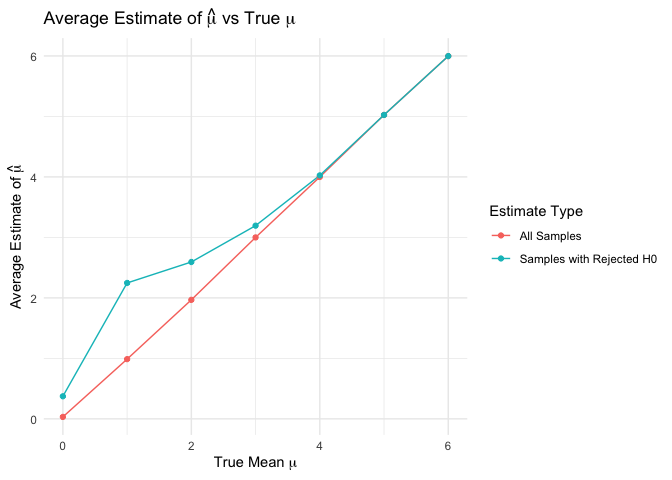
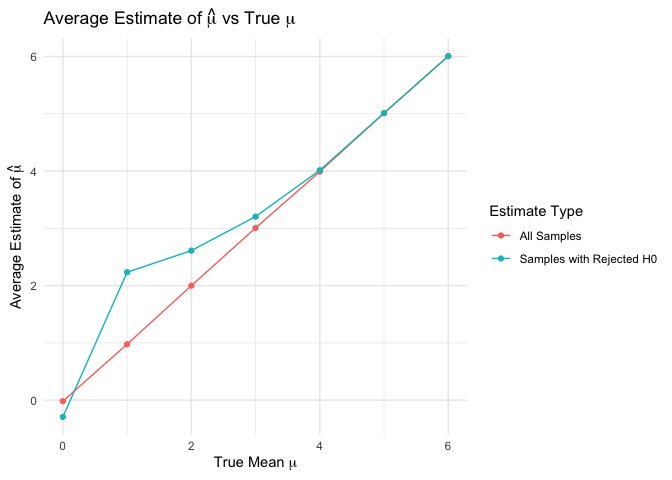
Problem3: get proportion test for baltimore and rest cities, add bar plot

diff --git a/p8105_hw5_mw3845.md b/p8105_hw5_mw3845.md
@@ -94,20 +94,20 @@ sim_results_df |>
 
 | parameter | mu_vec | emp_mean | emp_var |
 |:----------|-------:|---------:|--------:|
-| estimate  |      0 |  0.03207 | 0.82778 |
-| estimate  |      1 |  0.98736 | 0.83798 |
-| estimate  |      2 |  1.96742 | 0.83348 |
-| estimate  |      3 |  2.99928 | 0.82707 |
-| estimate  |      4 |  3.99906 | 0.84713 |
-| estimate  |      5 |  5.02425 | 0.83410 |
-| estimate  |      6 |  5.99704 | 0.84558 |
-| p.value   |      0 |  0.49937 | 0.08380 |
-| p.value   |      1 |  0.34899 | 0.08934 |
-| p.value   |      2 |  0.12522 | 0.03921 |
-| p.value   |      3 |  0.02429 | 0.00517 |
-| p.value   |      4 |  0.00332 | 0.00045 |
+| estimate  |      0 | -0.01865 | 0.81685 |
+| estimate  |      1 |  0.97626 | 0.81481 |
+| estimate  |      2 |  1.99851 | 0.80550 |
+| estimate  |      3 |  3.00680 | 0.85284 |
+| estimate  |      4 |  3.98929 | 0.81536 |
+| estimate  |      5 |  5.01065 | 0.82543 |
+| estimate  |      6 |  6.00642 | 0.85700 |
+| p.value   |      0 |  0.50069 | 0.08245 |
+| p.value   |      1 |  0.35078 | 0.08823 |
+| p.value   |      2 |  0.11743 | 0.03508 |
+| p.value   |      3 |  0.02380 | 0.00457 |
+| p.value   |      4 |  0.00284 | 0.00016 |
 | p.value   |      5 |  0.00028 | 0.00000 |
-| p.value   |      6 |  0.00003 | 0.00000 |
+| p.value   |      6 |  0.00002 | 0.00000 |
 
 With the table containing empirical mean and variance for estimate and
 p-value, we expect an positive association between the power and $\mu$
@@ -181,3 +181,85 @@ ggplot(combined_estimate_df, aes(x = mu_vec, y = Average_Estimate, color = Estim
 ```
 
 ![](p8105_hw5_mw3845_files/figure-gfm/Problem2_estAvg_vs_trueValueMu-1.png)<!-- -->
+
+\#Problem 3
+
+``` r
+homocide_df = read.csv("./homicide-data.csv")
+
+homicide_summary_df = homocide_df %>% 
+  mutate(
+    city_state = paste(city, state, sep = ", ")
+  ) %>% 
+  group_by(city_state) %>% 
+  summarise(
+    total_homicide = n(),
+    unresolved_homicide = sum(disposition %in% c("Closed without arrest", "Open/No arrest"))
+  )
+```
+
+``` r
+# Select Baltimore's data
+baltimore_df = homicide_summary_df %>% 
+  filter(city_state == "Baltimore, MD")
+
+# Use prop.test for the proportion of unresolved homicides
+baltimore_result = 
+  prop.test(
+  x = pull(baltimore_df, unresolved_homicide),
+  n = pull(baltimore_df, total_homicide)
+) %>% 
+  broom::tidy() %>% 
+  select(
+    estimate, conf.low, conf.high
+  ) %>% 
+  janitor::clean_names()
+
+baltimore_result
+```
+
+    ## # A tibble: 1 × 3
+    ##   estimate conf_low conf_high
+    ##      <dbl>    <dbl>     <dbl>
+    ## 1    0.646    0.628     0.663
+
+``` r
+# Conduct prop.test on other cities
+homicide_result = homicide_summary_df %>% 
+  mutate(
+    prop_test_result = map2(
+      unresolved_homicide, total_homicide, \(unres, tot) prop.test(x = unres, n = tot) %>% 
+      broom::tidy()
+    )
+  ) %>% 
+  unnest(prop_test_result) %>% 
+  select(
+    city_state,
+    estimate,
+    conf.low,
+    conf.high
+  ) %>% 
+  janitor::clean_names()
+```
+
+    ## Warning: There was 1 warning in `mutate()`.
+    ## ℹ In argument: `prop_test_result = map2(...)`.
+    ## Caused by warning in `prop.test()`:
+    ## ! Chi-squared approximation may be incorrect
+
+``` r
+# Plotting proportion of unresolved homicide for cities
+homicide_result %>% 
+  arrange(estimate) %>% 
+  ggplot(aes(x = reorder(city_state, estimate), y = estimate)) +
+  geom_point() +
+  geom_errorbar(aes(ymin = conf_low, ymax = conf_high), width = 0.2) +
+  coord_flip() +
+  labs(
+    title = "Proportion of Unresolved Homicides with Confidence Intervals",
+    x = "City, State",
+    y = "Estimated Proportion of Unresolved Homicides"
+  ) 
+```
+
+![](p8105_hw5_mw3845_files/figure-gfm/prop_tests-1.png)<!-- -->
